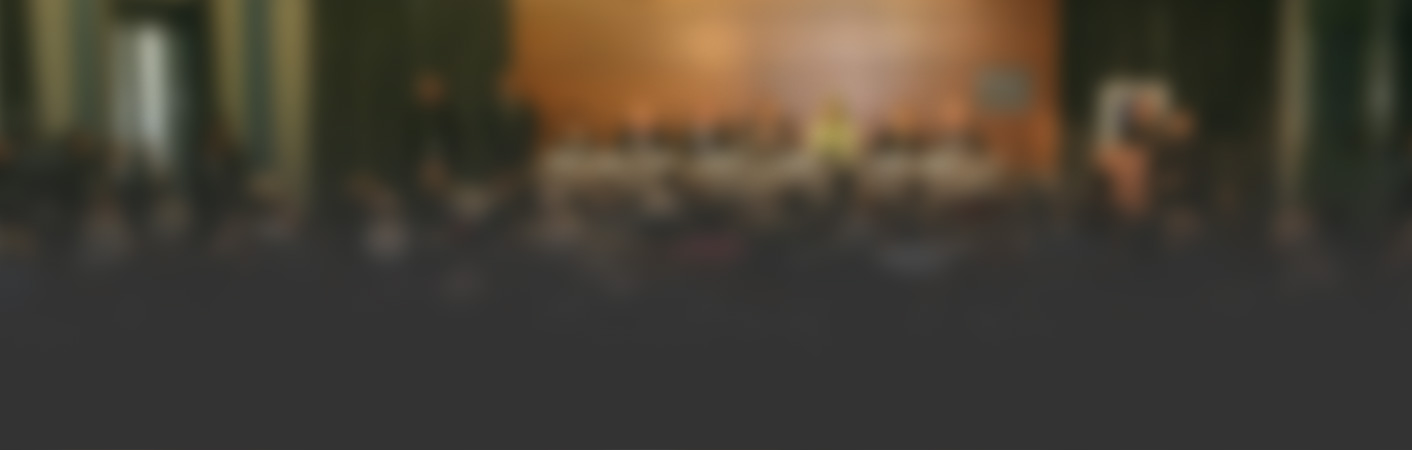
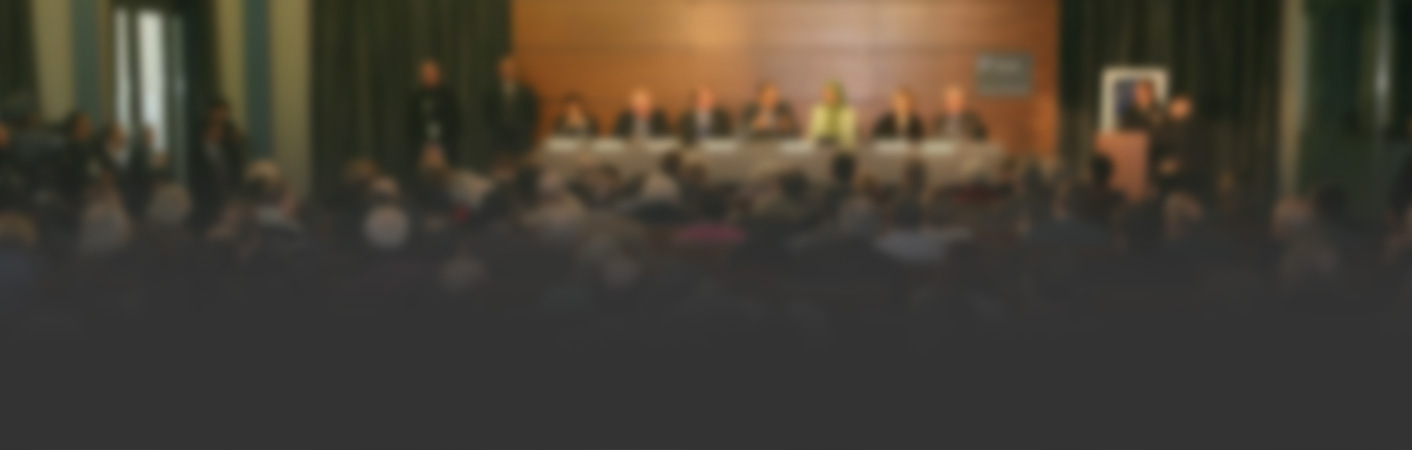
added a background image to the press page.

diff --git a/sass/_main.scss b/sass/_main.scss
@@ -25,6 +25,11 @@
     background-size: cover;
 }
 
+.fixed-header--press {
+    background: url(/img/press-bg.jpg);
+    background-size: cover;
+}
+
 #fixed-header > .align-vertical {
     display: table-cell;
     vertical-align: middle;

diff --git a/views/press.php b/views/press.php
@@ -1,4 +1,4 @@
-<header id="fixed-header" class="fixed-header--pt section-padding dgrey">
+<header id="fixed-header" class="fixed-header--press section-padding dgrey">
     <hgroup class="align-vertical">
         <h1>PRESS</h1>
     </hgroup>
